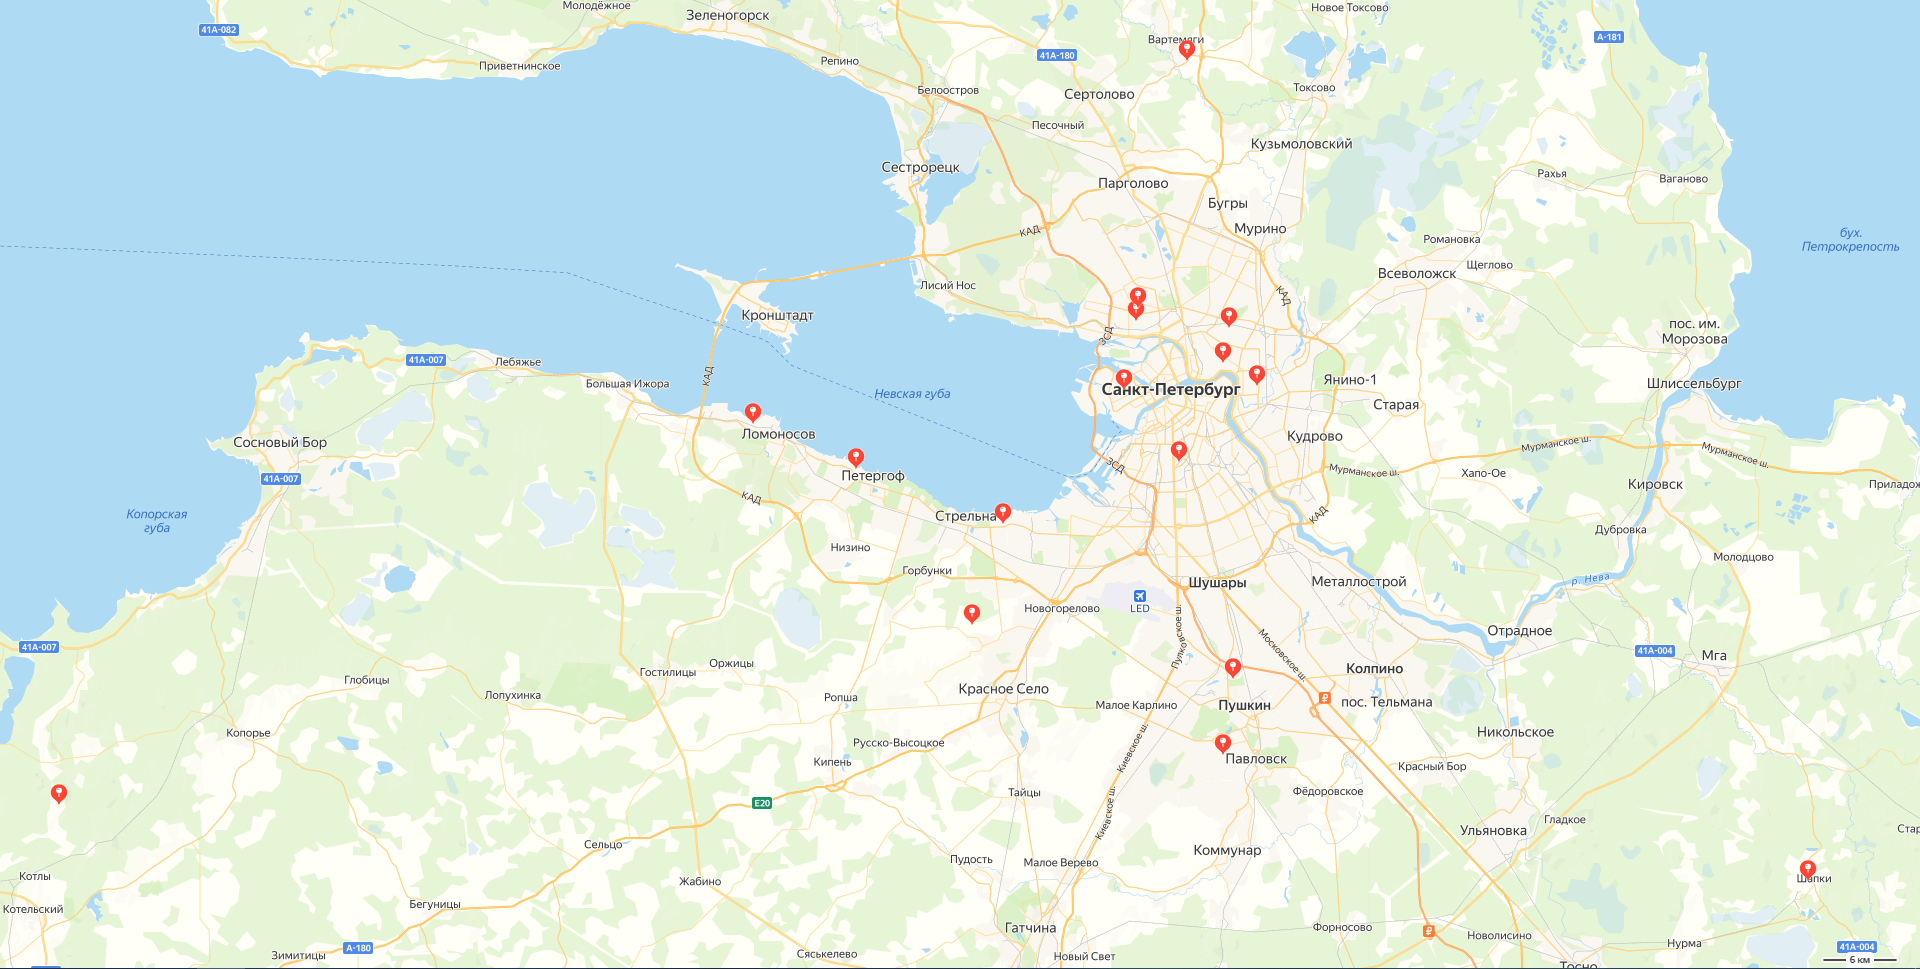
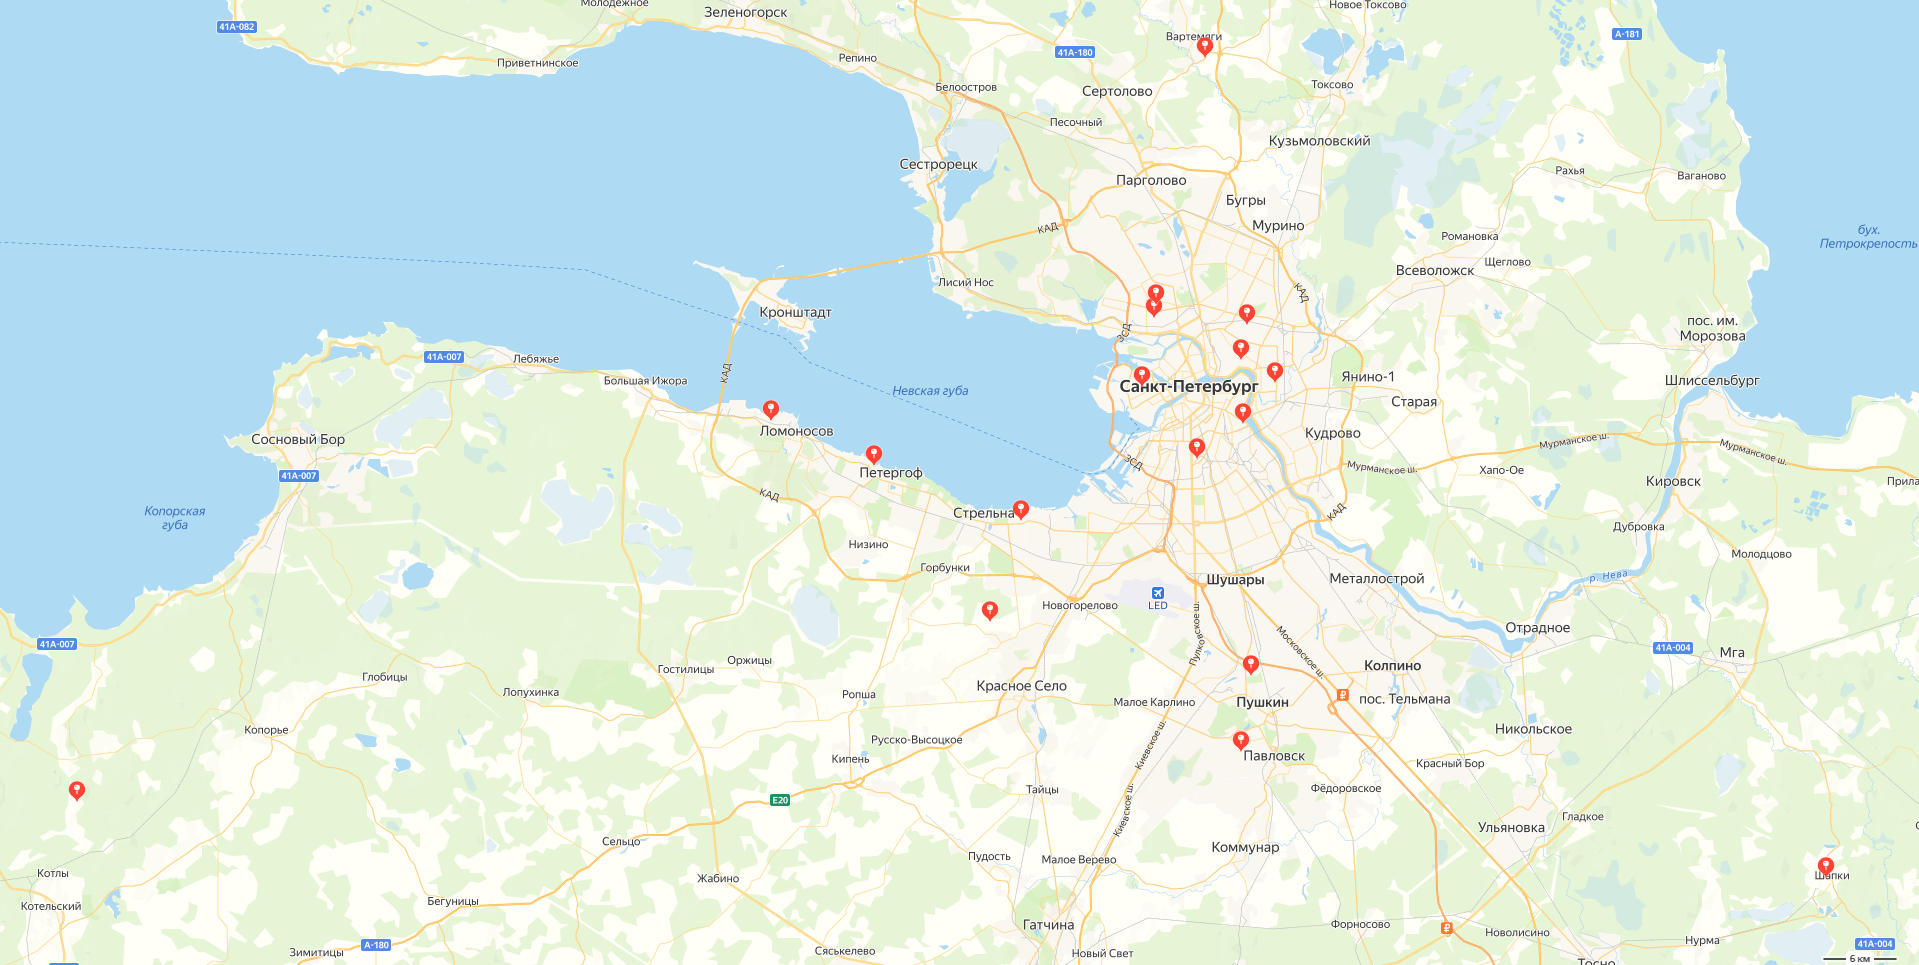
part of points added

diff --git a/css/schema.css b/css/schema.css
@@ -1,4 +1,81 @@
 body {
     background-image: url(/img/schema.png);
-    
+}
+
+.mappoint {
+    position: absolute;
+    height: 12px;
+    width: 12px;
+    cursor: pointer;
+    border: 1px solid black;
+}
+
+#point1 {
+    left: 1236px;
+    top: 405px;
+}
+
+#point2 {
+    left: 1819px;
+    top: 859px;
+}
+
+#point3 {
+    left: 1135px;
+    top: 368px;
+}
+
+#point4 {
+    left: 1014px;
+    top: 502px;
+}
+
+#point5 {
+    left: 983px;
+    top: 603px;
+}
+
+#point6 {
+    left: 867px;
+    top: 447px;
+}
+
+#point7 {
+    left: 1198px;
+    top: 39px;
+}
+
+#point8 {
+    left: 1244px;
+    top: 656px;
+}
+
+#point9 {
+    left: 1190px;
+    top: 439px;
+}
+
+#point10 {
+    left: 1234px;
+    top: 732px;
+}
+
+#point11 {
+    left: 70px;
+    top: 783px;
+}
+
+#point12 {
+    left: 1147px;
+    top: 300px;
+}
+
+#point13 {
+    top: 364px;
+    left: 1268px;
+}
+
+#point14 {
+    left: 1240px;
+    top: 305px;
 }

diff --git a/html/schema.html b/html/schema.html
@@ -9,6 +9,19 @@
     <title>Места захоронений</title>
 </head>
 <body>
-    
+    <div class="mappoint" id="point1"></div>
+    <div class="mappoint" id="point2"></div>
+    <div class="mappoint" id="point3"></div>
+    <div class="mappoint" id="point4"></div>
+    <div class="mappoint" id="point5"></div>
+    <div class="mappoint" id="point6"></div>
+    <div class="mappoint" id="point7"></div>
+    <div class="mappoint" id="point8"></div>
+    <div class="mappoint" id="point9"></div>
+    <div class="mappoint" id="point10"></div>
+    <div class="mappoint" id="point11"></div>
+    <div class="mappoint" id="point12"></div>
+    <div class="mappoint" id="point13"></div>
+    <div class="mappoint" id="point14"></div>
 </body>
 </html>
